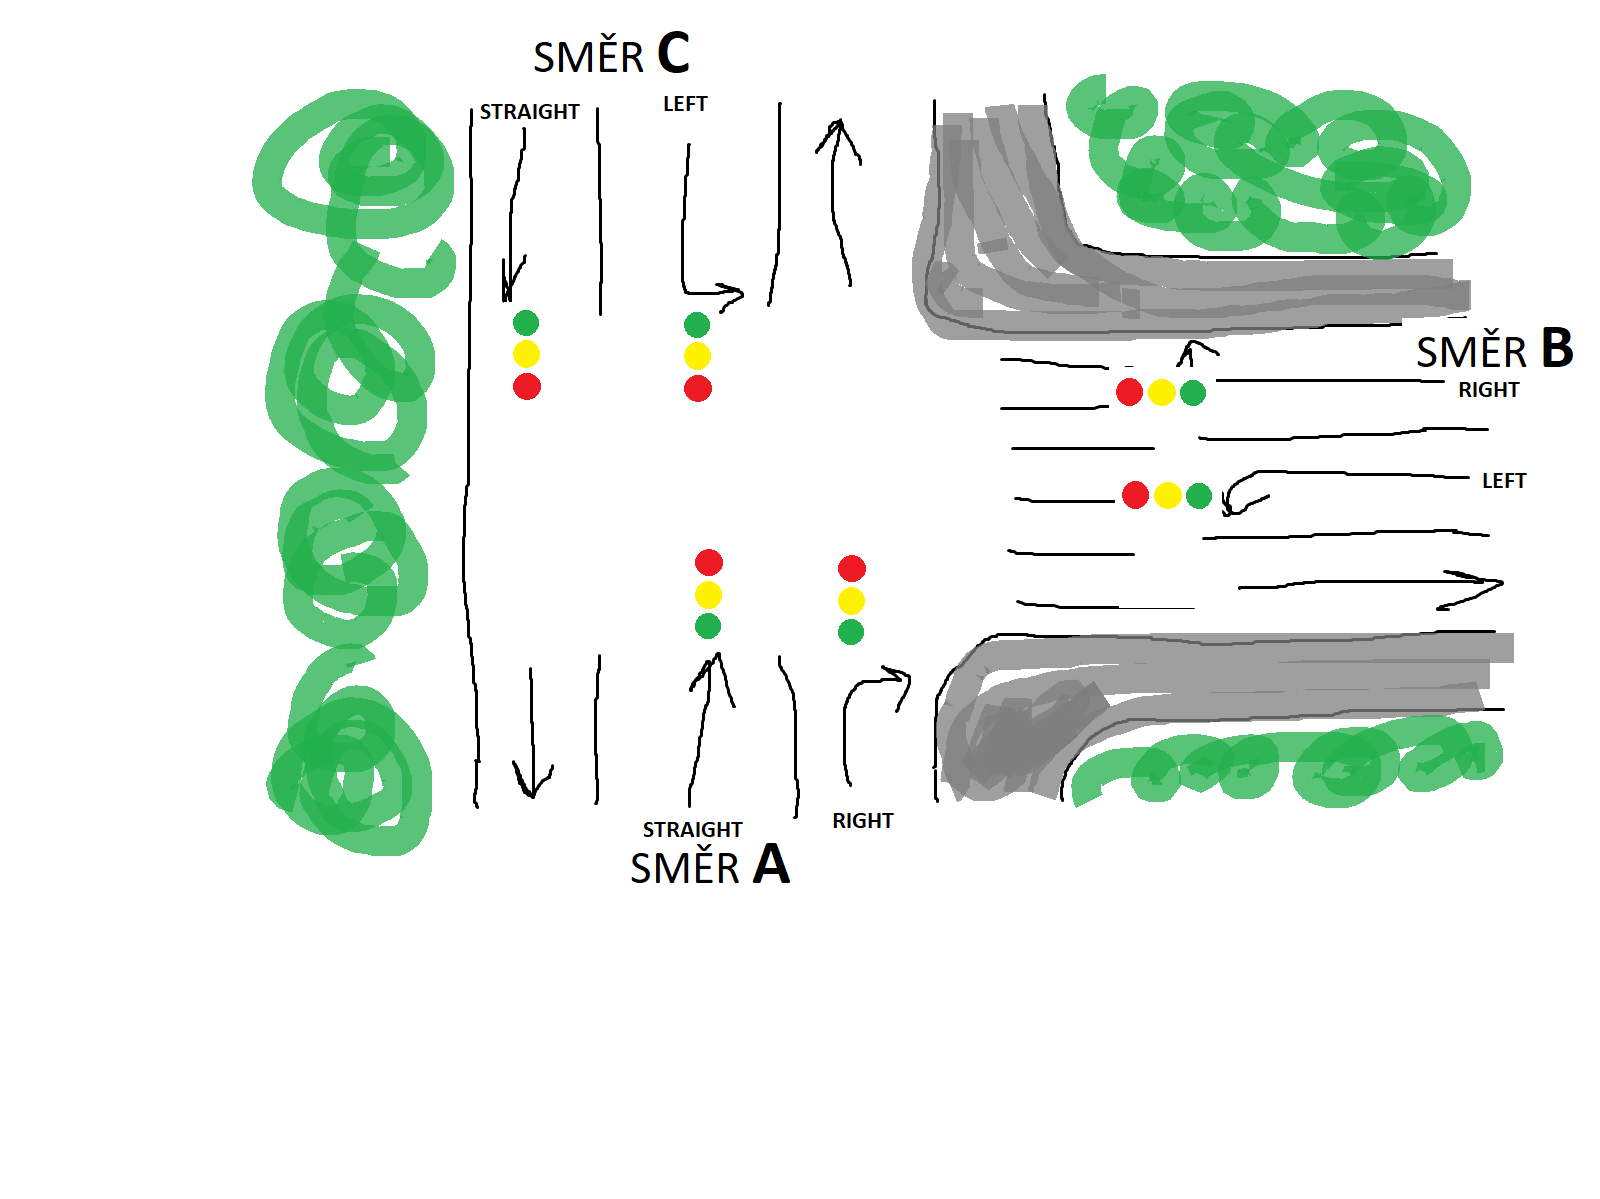
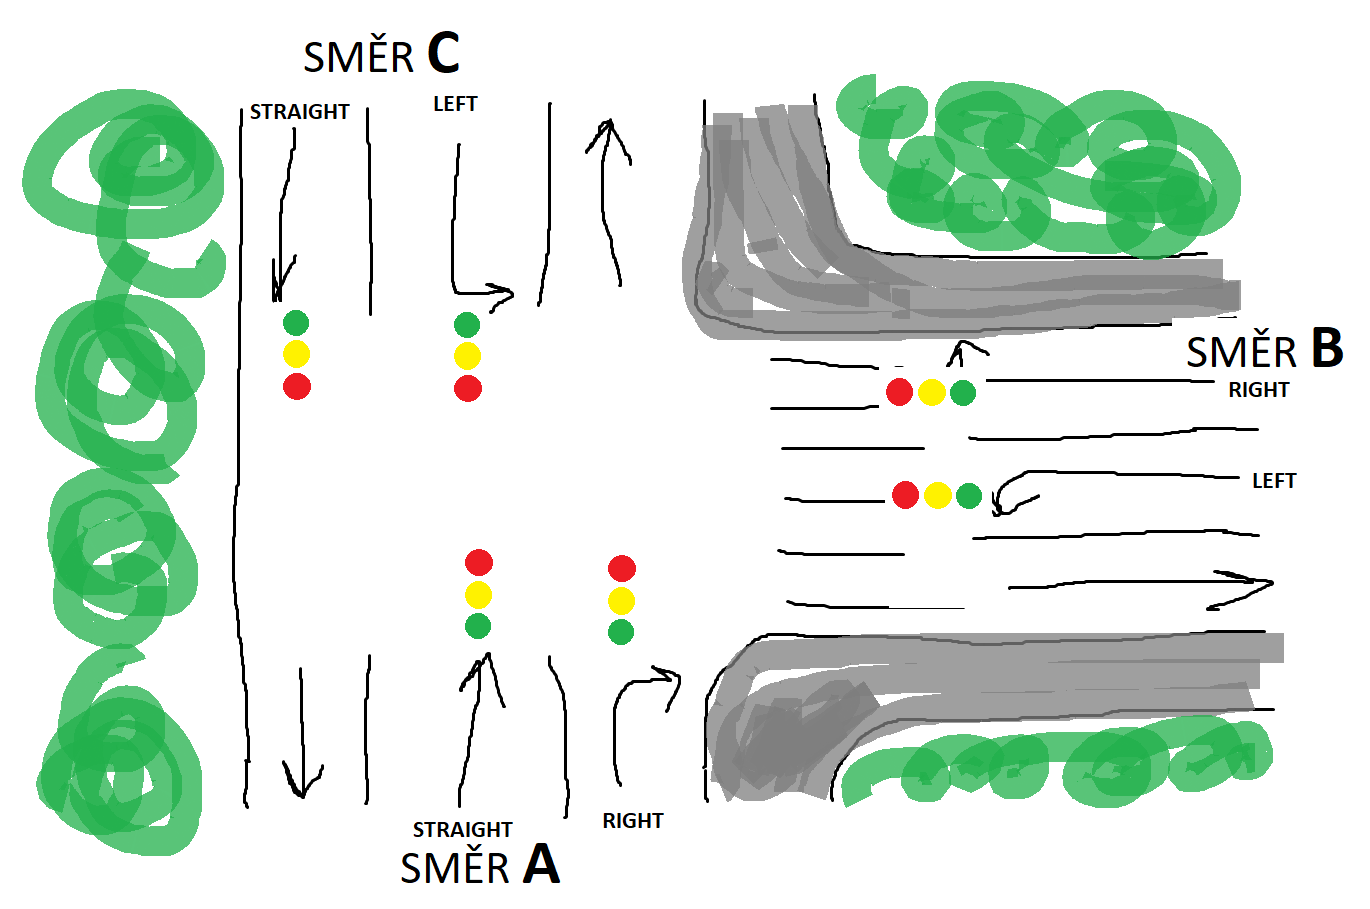
Přidání obrázků a provedení změn v README

diff --git a/README.md b/README.md
@@ -30,6 +30,28 @@ Nápady řešení některých věcí a znalosti jsem potom skrze celé studium a
 
 - **Světelné řízení křižovatky popřípadě doplňte o vlastní nápady a inovace.**
 
+## Vizualizace křižovatky
+
+Na celou křižovatku byste se měli dívat tady tímto způsobem. V **Malování** jsem si už ze začátku práce na projektu udělal takový návrh, podle kterého jsem se **orientoval při vytváření kódu**. Dále v dokumentaci tu mám i trochu **rozšířenou verzi**, ale tady zatím stačí pouze její původní verze.
+
+![Návrh projektu](Extern%C3%AD%20soubory%20ohledn%C4%9B%20projektu/N%C3%A1vrh%20projektu.png)
+
+V obrázku není zahrnut přechod pro chodce z pohledu periferií, protože mi při návrhu šlo hlavně o semafory řídicí provoz na silnici. Lépe řešeno mně zajímali jednotlivé směry a jízdní pruhy, které jsem si musel očíslovat/popsat tak, aby se mi s nimi dobře pracovalo.
+
 ## Schéma zapojení
 
 Schéma zapojení je vytvořeno v programu <a href="https://www.kicad.org/">**KiCad**</a>.
+
+![Elektrické schéma - HARDWARE](Obrázky%20a%20videa/Elektrické%20sch%C3%A9ma%20-%20HARDWARE.png)
+
+Pro detailnější zobrazení si otevřte PDF soubor [Model Křižovatky - Elektrické Schéma](Dokumentace/Model%20K%C5%99i%C5%BEovatky%20-%20Elektrick%C3%A9%20Sch%C3%A9ma%20-%20Projekt%20MIT.pdf).
+
+## Vývojový diagram
+
+## Popis činnosti programu
+
+Vytvoření algoritmu prošlo mnoha fázemi. Kolikrát jsem měl již něco vytvořené, ale narazil jsem vždy na něco, kvůli čemu by to bylo nešikovné, ale nakonec jsem se dostal k verzi, která funguje a řešení jednotlivých problémů mi přišlo dostatečně 
+
+## Zdrojový kód
+
+## Nápady vylepšení, dotazy, připomínky
